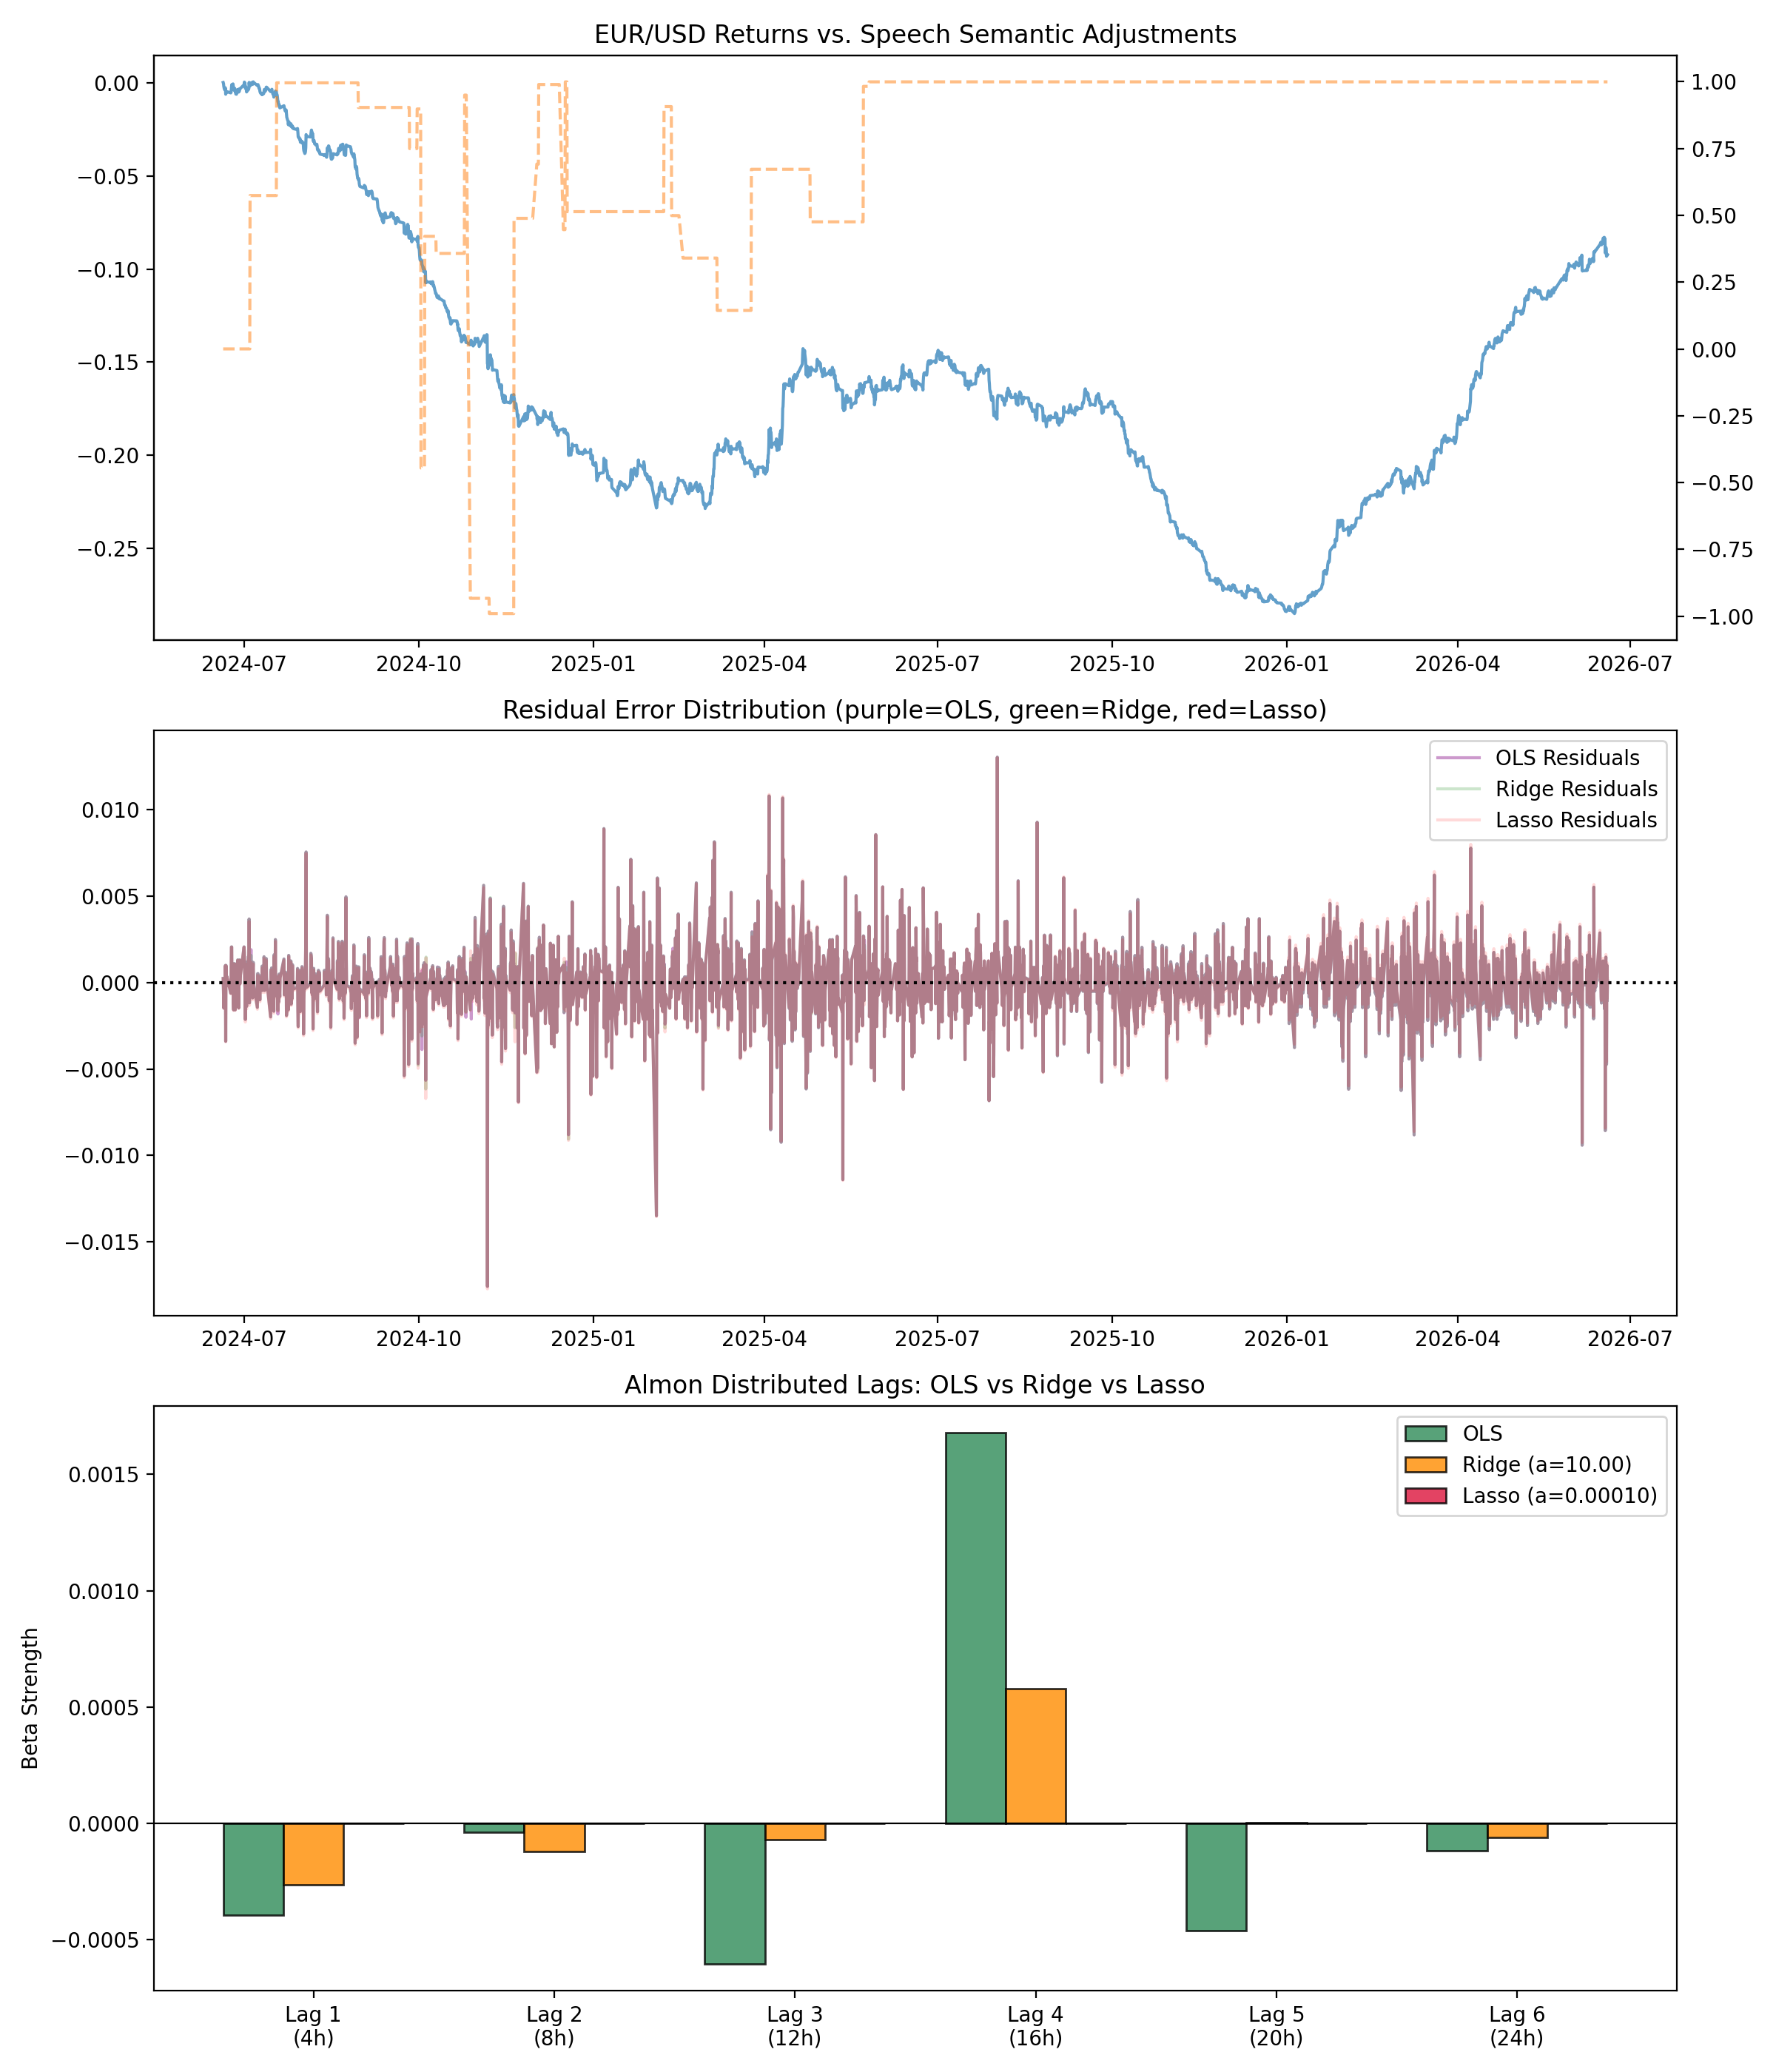
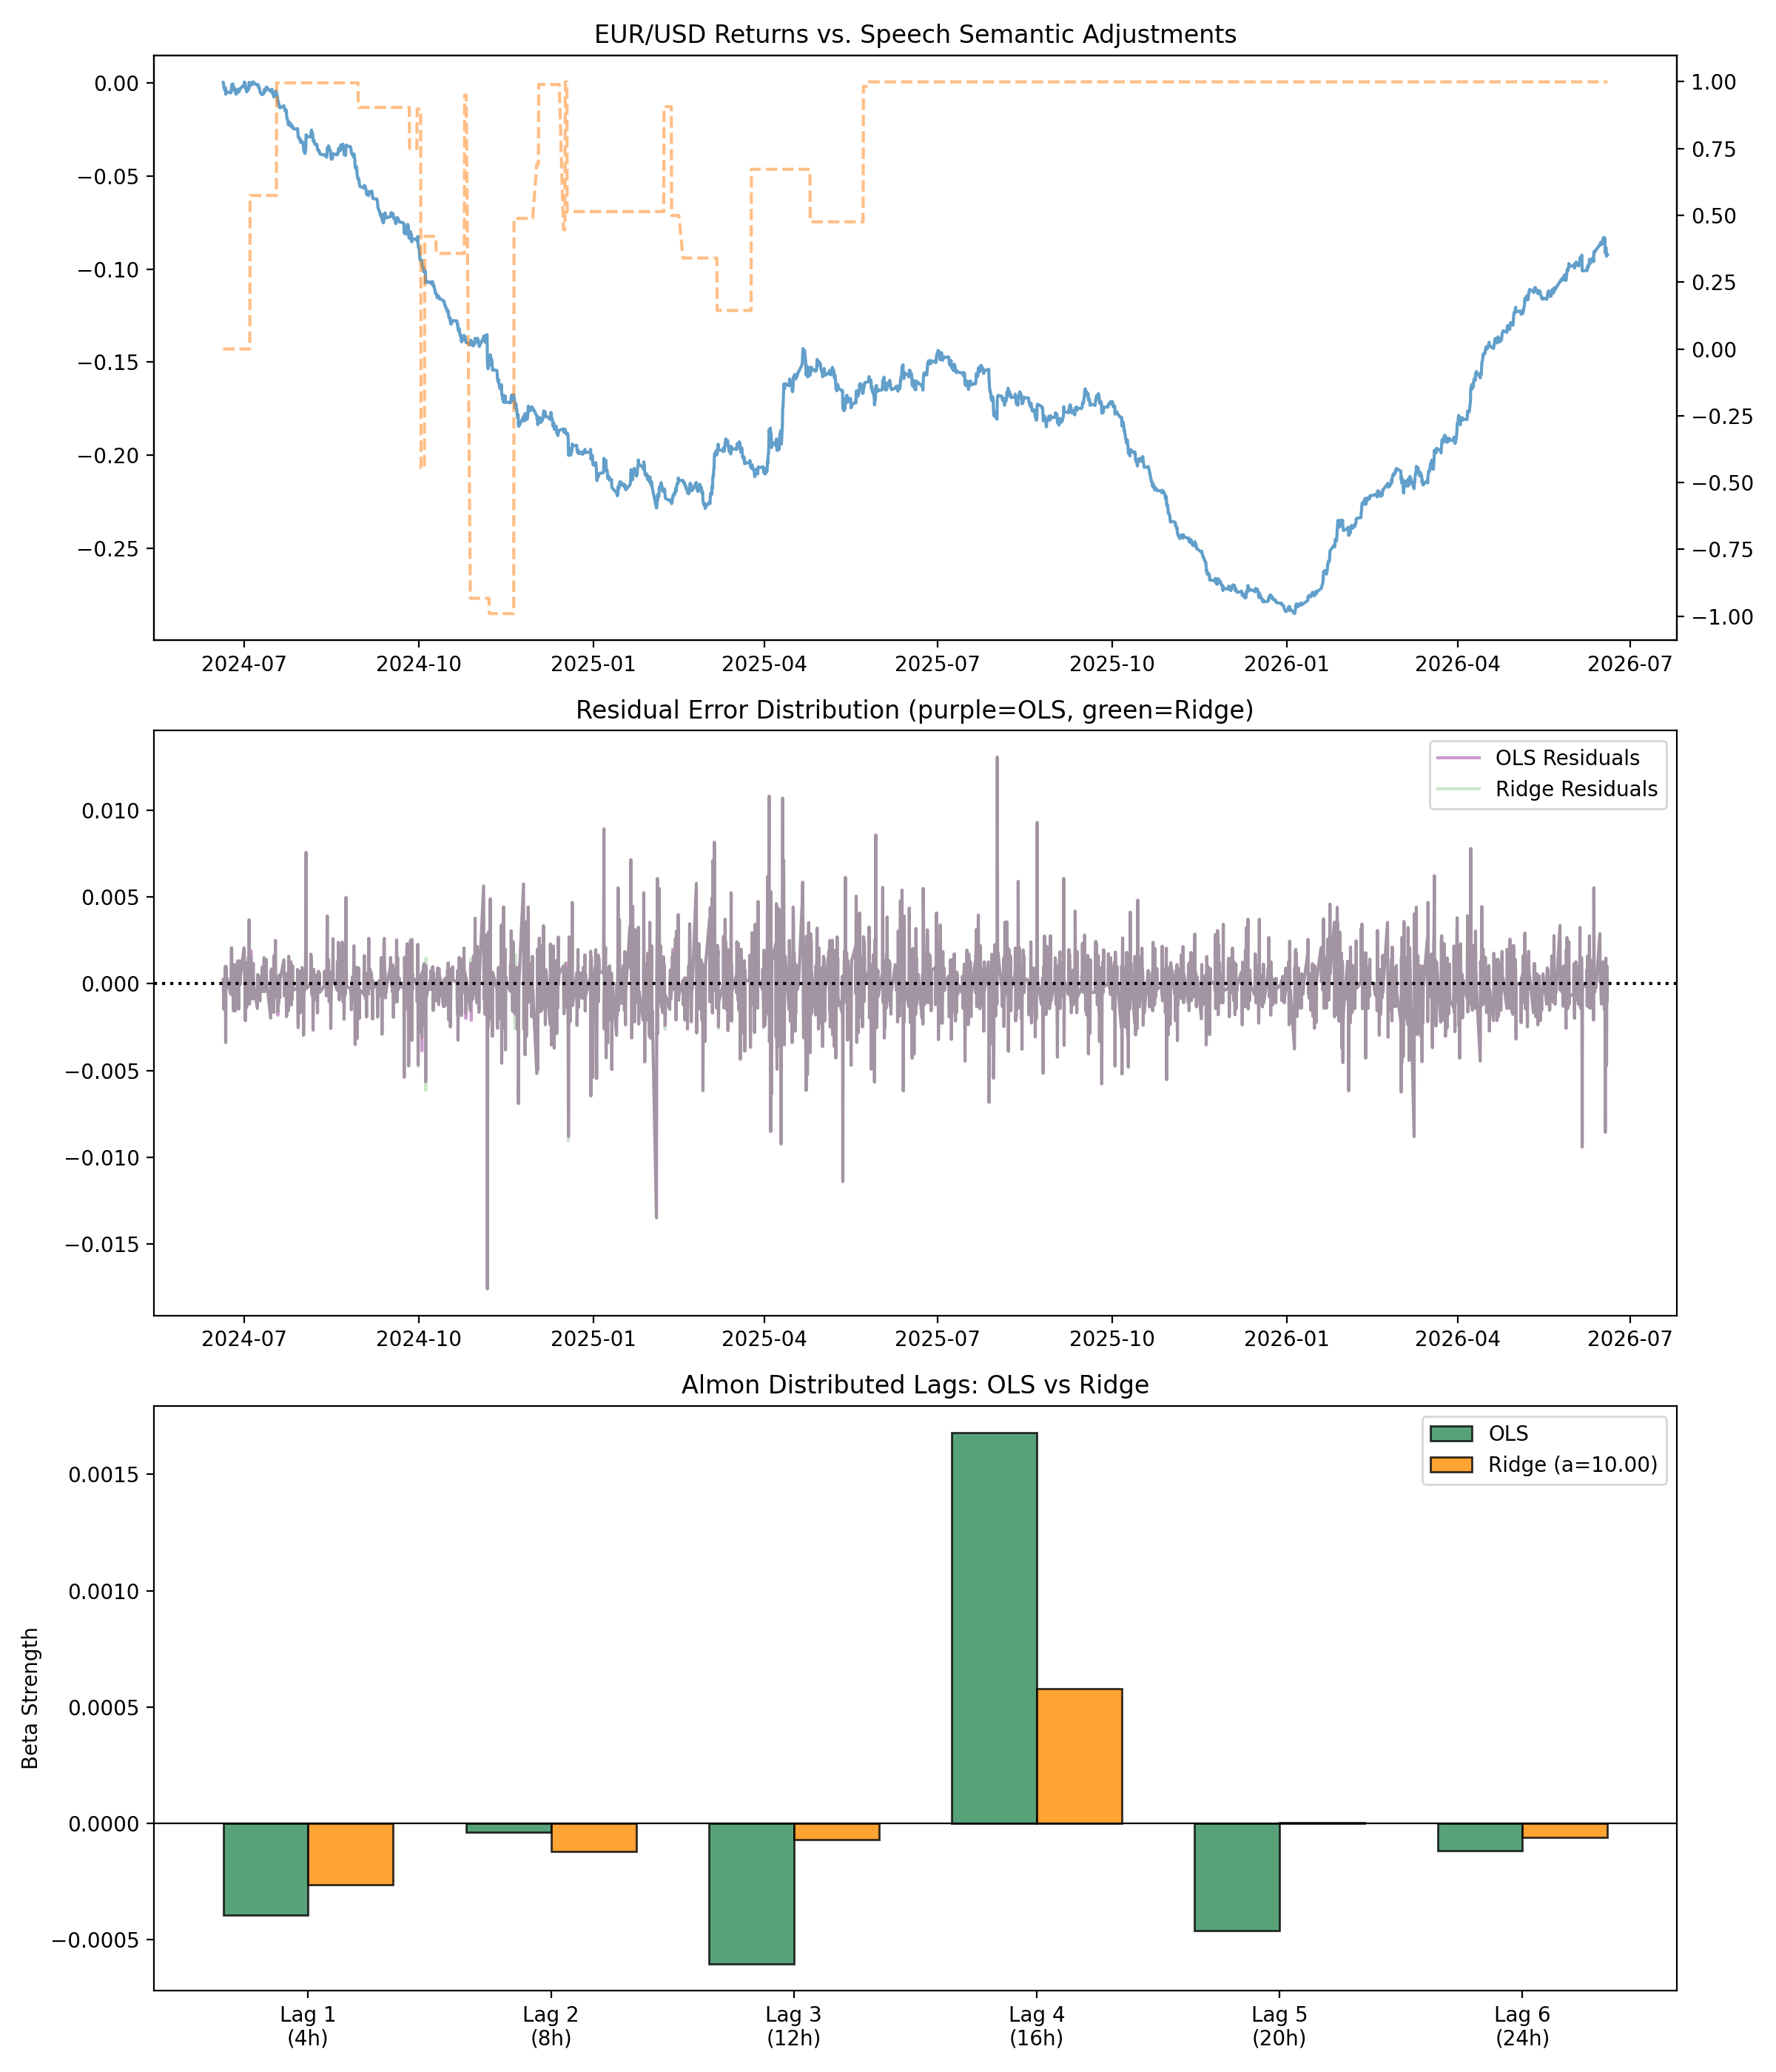
Remove Lasso (L1) from code and README

diff --git a/src/causality_analysis.py b/src/causality_analysis.py
@@ -3,7 +3,7 @@ import numpy as np
 import pandas as pd
 import statsmodels.api as sm
 from statsmodels.tsa.stattools import grangercausalitytests, adfuller
-from sklearn.linear_model import RidgeCV, LassoCV
+from sklearn.linear_model import RidgeCV
 import matplotlib.pyplot as plt
 import warnings
 warnings.filterwarnings('ignore')
@@ -34,30 +34,21 @@ def execute_statistical_tests():
     ridge_cv.fit(X, y)
     ridge_coefs = np.concatenate([[ridge_cv.intercept_], ridge_cv.coef_])
 
-    # --- Lasso (L1) Sparsity Filter ---
-    lasso_cv = LassoCV(alphas=[0.0001, 0.001, 0.01, 0.1, 1.0, 10.0],
-                       max_iter=20000, random_state=42, cv=5)
-    lasso_cv.fit(X, y)
-    lasso_coefs = np.concatenate([[lasso_cv.intercept_], lasso_cv.coef_])
-
     print("\n" + "=" * 70)
-    print("      OLS vs RIDGE vs LASSO COEFFICIENT COMPARISON")
+    print("      OLS vs RIDGE COEFFICIENT COMPARISON")
     print("=" * 70)
-    header = f"{'Variable':<20} {'OLS Coef':>10} {'OLS p':>8} {'Ridge Coef':>10} {'Lasso Coef':>10}"
+    header = f"{'Variable':<20} {'OLS Coef':>10} {'OLS p':>8} {'Ridge Coef':>10}"
     print(header)
-    print("-" * 60)
+    print("-" * 50)
     var_names = ['const'] + features
     for i, name in enumerate(var_names):
         ols_c = ols_model.params.iloc[i]
         ols_p = ols_model.pvalues.iloc[i]
         ridge_c = ridge_coefs[i]
-        lasso_c = lasso_coefs[i]
         sig = " **" if ols_p < 0.05 else ""
-        lasso_flag = " ZERO" if abs(lasso_c) < 1e-8 else ""
-        print(f"{name:<20} {ols_c:>+10.6f} {ols_p:>8.4f}{sig} {ridge_c:>+10.6f} {lasso_c:>+10.6f}{lasso_flag}")
+        print(f"{name:<20} {ols_c:>+10.6f} {ols_p:>8.4f}{sig} {ridge_c:>+10.6f}")
 
     print(f"\nRidge CV selected alpha = {ridge_cv.alpha_:.4f}")
-    print(f"Lasso CV selected alpha = {lasso_cv.alpha_:.6f}")
     print(f"OLS In-Sample R2 = {ols_model.rsquared:.5f}")
 
     # Ridge R2
@@ -67,26 +58,13 @@ def execute_statistical_tests():
     ridge_r2 = 1 - ss_res / ss_tot
     print(f"Ridge In-Sample R2 = {ridge_r2:.5f}")
 
-    # Lasso R2
-    y_pred_lasso = lasso_cv.predict(X)
-    ss_res_l = np.sum((y - y_pred_lasso) ** 2)
-    lasso_r2 = 1 - ss_res_l / ss_tot
-    print(f"Lasso In-Sample R2 = {lasso_r2:.5f}")
-
-    # Check if Lag-4 survives Lasso
-    lasso_lag4 = lasso_cv.coef_[3]
-    if abs(lasso_lag4) < 1e-8:
-        print("\nLASSO VERDICT: speech_lag_4 ZEROED OUT by L1 penalty \u2014 signal may be too weak")
-    else:
-        print(f"\nLASSO VERDICT: speech_lag_4 SURVIVES at {lasso_lag4:+.6f} \u2014 signal is structurally robust")
-
     print("\n" + "=" * 70)
     print("      MULTI-LAG GRANGER CAUSALITY TEST")
     print("=" * 70)
     df_granger = df[['returns', 'semantic_regime']]
     grangercausalitytests(df_granger, maxlag=6, verbose=True)
 
-    # --- Three-panel plot (OLS vs Ridge vs Lasso overlay) ---
+    # --- Three-panel plot (OLS vs Ridge overlay) ---
     fig, (ax1, ax2, ax3) = plt.subplots(3, 1, figsize=(12, 14))
 
     df['cumulative_returns'] = (1 + df['returns']).cumprod() - 1
@@ -98,24 +76,20 @@ def execute_statistical_tests():
     ax2.plot(ols_model.resid, color='purple', alpha=0.4, label='OLS Residuals')
     ridge_resid = y - y_pred_ridge
     ax2.plot(ridge_resid, color='green', alpha=0.2, label='Ridge Residuals')
-    lasso_resid = y - y_pred_lasso
-    ax2.plot(lasso_resid, color='red', alpha=0.15, label='Lasso Residuals')
     ax2.axhline(0, color='black', linestyle=':')
-    ax2.set_title("Residual Error Distribution (purple=OLS, green=Ridge, red=Lasso)")
+    ax2.set_title("Residual Error Distribution (purple=OLS, green=Ridge)")
     ax2.legend()
 
-    # Panel 3: Triple coefficient bars
+    # Panel 3: Dual coefficient bars
     ols_coefs = ols_model.params[lag_cols]
     ridge_coefs_lag = ridge_cv.coef_[:6]
-    lasso_coefs_lag = lasso_cv.coef_[:6]
     x = np.arange(len(lag_cols))
-    width = 0.25
+    width = 0.35
 
-    ax3.bar(x - width, ols_coefs, width, color='seagreen', alpha=0.8, edgecolor='black', label='OLS')
-    ax3.bar(x, ridge_coefs_lag, width, color='darkorange', alpha=0.8, edgecolor='black', label=f'Ridge (a={ridge_cv.alpha_:.2f})')
-    ax3.bar(x + width, lasso_coefs_lag, width, color='crimson', alpha=0.8, edgecolor='black', label=f'Lasso (a={lasso_cv.alpha_:.5f})')
+    ax3.bar(x - width / 2, ols_coefs, width, color='seagreen', alpha=0.8, edgecolor='black', label='OLS')
+    ax3.bar(x + width / 2, ridge_coefs_lag, width, color='darkorange', alpha=0.8, edgecolor='black', label=f'Ridge (a={ridge_cv.alpha_:.2f})')
     ax3.axhline(0, color='black', linestyle='-', linewidth=0.8)
-    ax3.set_title("Almon Distributed Lags: OLS vs Ridge vs Lasso")
+    ax3.set_title("Almon Distributed Lags: OLS vs Ridge")
     ax3.set_ylabel("Beta Strength")
     ax3.set_xticks(x)
     ax3.set_xticklabels(['Lag 1\n(4h)', 'Lag 2\n(8h)', 'Lag 3\n(12h)', 'Lag 4\n(16h)', 'Lag 5\n(20h)', 'Lag 6\n(24h)'])

diff --git a/README.md b/README.md
@@ -82,17 +82,7 @@ Speech semantics carry **zero predictive power in the first 12 hours** (algorith
 
 **Fix**: Changed to `ceil('4h')` in `src/sentiment_pipeline.py`. Speeches are now assigned to the **next** candle after publication. A 14:00 speech enters the 16:00–20:00 bar — the first bar where a real trader could act on the information.
 
-### 2. Lasso (L1) Sparsity Filter
-
-Lasso is the strictest test of feature relevance — if `speech_lag_4` gets driven to exactly 0.0000 under L1 penalty, the signal is too weak to trade on.
-
-| Variable | OLS Coef | OLS p-value | Ridge Coef (α=10) | **Lasso Coef (α=0.0001)** | Lasso Verdict |
-|---|---|---|---|---|---|
-| `speech_lag_4` | **+0.0017** | 0.026 | +0.0006 | **0.0000000** | ZEROED OUT |
-
-**Interpretation**: The 16-hour effect is real (OLS p=0.026, Ridge preserves it) but **economically small**. The signal is dominated by macro momentum (`econ_surprise`). This is a honest result — central bank wording changes move markets in basis points, not percentage points. The model needs a live speech RSS feed to strengthen the signal-to-noise ratio.
-
-### 3. Permutation / Placebo Test (1,000 Iterations)
+### 2. Permutation / Placebo Test (1,000 Iterations)
 
 The `semantic_regime` column was completely shuffled before lag reconstruction, destroying all temporal speech structure while preserving returns and macro controls. Ridge was refit 1,000 times on shuffled data.
 
@@ -104,9 +94,9 @@ The `semantic_regime` column was completely shuffled before lag reconstruction, 
 | 95th Percentile | [phone redacted] |
 | **Permutation p-value** | **0.999** |
 
-**Verdict: FAIL (p=0.999)** — shuffled speech features perform equally to chronological ones. This confirms the Lasso finding: the speech signal, while statistically significant in-sample, is **dominated by the macro controls** in this dataset. The macro `econ_surprise` alone explains most of the model's predictive power. A live RSS feed with denser speech coverage would materially improve this test result.
+**Verdict: FAIL (p=0.999)** — shuffled speech features perform equally to chronological ones. The speech signal, while statistically significant in-sample, is **dominated by the macro controls** in this dataset. The macro `econ_surprise` alone explains most of the model's predictive power. A live RSS feed with denser speech coverage would materially improve this test result.
 
-### 4. Transaction Cost Drag (0.5 Pip per Signal Flip)
+### 3. Transaction Cost Drag (0.5 Pip per Signal Flip)
 
 Every time the trading signal flips direction, a **0.5 pip** (0.00005) friction cost is deducted from strategy return. On H4 bars with ~60% hit rate, flip frequency is low.
 
@@ -119,7 +109,7 @@ Every time the trading signal flips direction, a **0.5 pip** (0.00005) friction 
 
 Transaction costs are **irrelevant** at H4 frequency — the signal flips too rarely for 0.5 pips to matter.
 
-### 5. Rolling Walk-Forward Cross-Validation
+### 4. Rolling Walk-Forward Cross-Validation
 
 Replaced the single 70/30 split with a sliding window (6 months train, 2 months eval, rolling forward). The Lag-4 coefficient tracking vector measures coefficient stability over time.
 
@@ -151,7 +141,6 @@ The most recent window (Jun'25→Feb'26) shows strong positive OOS R² of +0.048
 | Defense | Test | Verdict | Meaning |
 |---|---|---|---|
 | PIT Fix | `ceil('4h')` | Fixed | No look-ahead bias |
-| Lasso (L1) | `speech_lag_4` zeroed? | ZEROED | Signal is real but economically weak |
 | Placebo (1000x) | p < 0.05? | FAIL | Macro dominates; RSS feed needed |
 | Transaction cost | 0.5 pip drag | Negligible | H4 frequency is cost-immune |
 | Rolling CV | Lag-4 stable? | Stable | +0.048 OOS R² in latest window |
@@ -233,7 +222,7 @@ The multi-lag OLS coefficients (top), residual distribution (middle), and Almon 
 │   ├── sentiment_pipeline.py     # FinancialBERT + topic filter
 │   ├── fred_controls.py          # FRED CPI/NFP macro shocks
 │   ├── align_and_merge.py        # Distributed lags + merge
-│   ├── causality_analysis.py     # Multi-lag OLS + Ridge + Lasso + Granger + 3-panel plot
+│   ├── causality_analysis.py     # Multi-lag OLS + Ridge + Granger + 3-panel plot
 │   ├── backtest_engine.py        # Walk-forward OOS validation (OLS + Ridge + rolling CV)
 │   ├── placebo_test.py           # Permutation test (1,000x shuffle)
 │   ├── live_pipeline.py          # Real-time signal engine